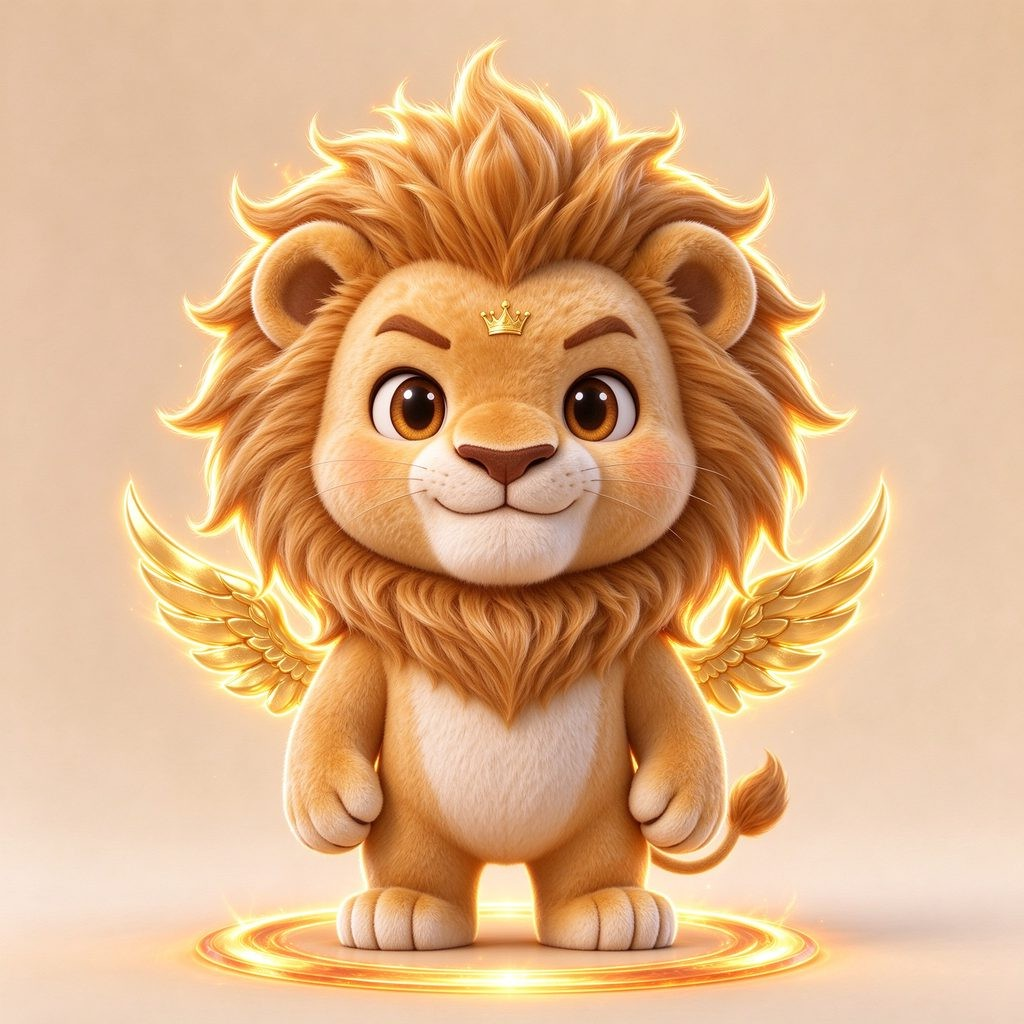
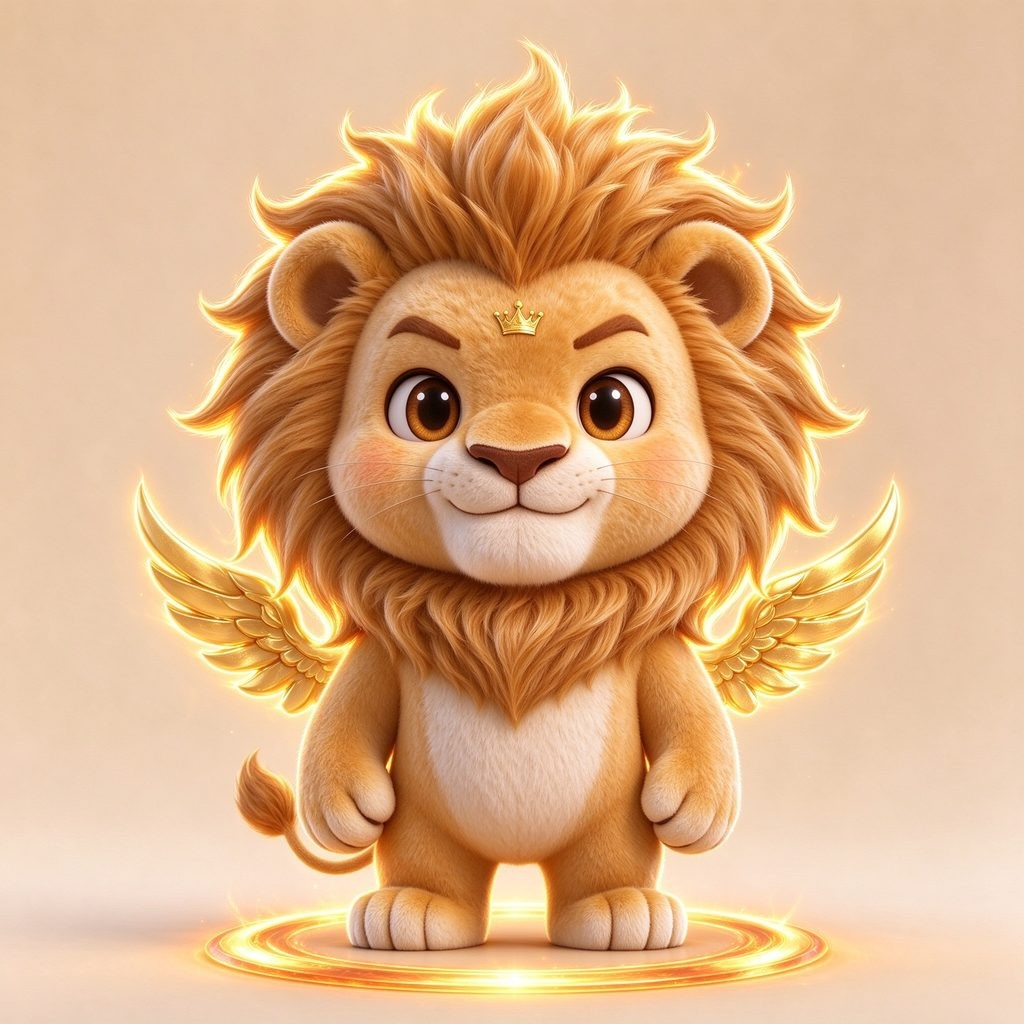
翻转 lion_s2；检查页加删除模式（198 张逐张可标）

diff --git a/public/art-audit.html b/public/art-audit.html
@@ -1,58 +1,67 @@
 <!doctype html>
 <html lang="zh-CN"><head><meta charset="utf-8"><meta name="viewport" content="width=device-width,initial-scale=1">
-<title>逐张朝向检查</title>
+<title>所有立绘 · 翻转 / 删除</title>
 <style>
-:root{--bg:#12131a;--card:#1b1d27;--line:#2b2e3d;--txt:#e9e6df;--dim:#9aa0b4;--warn:#ff8a8a;--ok:#8ee6a0}
+:root{--bg:#12131a;--card:#1b1d27;--line:#2b2e3d;--txt:#e9e6df;--dim:#9aa0b4;--warn:#ff8a8a;--del:#ff5c5c;--ok:#8ee6a0}
 *{box-sizing:border-box}
 body{margin:0;background:var(--bg);color:var(--txt);font:13px/1.5 -apple-system,"PingFang SC","Microsoft YaHei",sans-serif}
-header{position:sticky;top:0;z-index:9;background:rgba(18,19,26,.95);border-bottom:1px solid var(--line);padding:10px 14px}
+header{position:sticky;top:0;z-index:9;background:rgba(18,19,26,.96);border-bottom:1px solid var(--line);padding:10px 14px}
 h1{margin:0 0 4px;font-size:15px}
 .hint{color:var(--dim);font-size:12px}
 .bar{display:flex;gap:8px;align-items:center;flex-wrap:wrap;margin-top:8px}
 button{background:#242838;color:var(--txt);border:1px solid var(--line);border-radius:8px;padding:5px 10px;font-size:12px;cursor:pointer}
 button.on{background:#3a4258;border-color:#6f7bb0}
-.count{color:var(--warn);font-weight:600}
-textarea{width:100%;height:56px;background:#0e0f16;color:var(--ok);border:1px solid var(--line);border-radius:8px;padding:6px 8px;font-family:ui-monospace,monospace;font-size:12px;margin-top:8px}
+.mode{font-weight:600}
+.mode.flip{color:var(--warn)}
+.mode.del{color:var(--del)}
+textarea{width:100%;height:58px;background:#0e0f16;color:var(--ok);border:1px solid var(--line);border-radius:8px;padding:6px 8px;font-family:ui-monospace,monospace;font-size:12px;margin-top:8px}
 section{padding:14px}
 h2{font-size:13px;color:var(--dim);margin:6px 0 10px;font-weight:600}
-.grid{display:grid;grid-template-columns:repeat(auto-fill,minmax(130px,1fr));gap:10px}
+.grid{display:grid;grid-template-columns:repeat(auto-fill,minmax(124px,1fr));gap:10px}
 .card{background:var(--card);border:1px solid var(--line);border-radius:10px;padding:6px;cursor:pointer;position:relative}
 .card:hover{border-color:#4a5168}
-.card.on{border-color:var(--warn);box-shadow:0 0 0 1px var(--warn) inset}
-.card img{width:100%;height:104px;object-fit:contain;display:block;transition:transform .12s}
-.card.on img{transform:scaleX(-1)}
-.name{margin-top:4px;font-size:12px;text-align:center;white-space:nowrap;overflow:hidden;text-overflow:ellipsis}
-.id{font-size:10px;color:var(--dim);text-align:center;font-family:ui-monospace,monospace}
-.tag{position:absolute;top:4px;right:4px;font-size:10px;color:#1a1a1a;background:var(--warn);padding:0 4px;border-radius:5px;display:none}
-.card.on .tag{display:block}
-.hide{display:none}
+.card.flip{border-color:var(--warn);box-shadow:0 0 0 1px var(--warn) inset}
+.card.drop{border-color:var(--del);box-shadow:0 0 0 1px var(--del) inset}
+.card.flip img{transform:scaleX(-1)}
+.card.drop img{opacity:.28;filter:grayscale(1)}
+.card img{width:100%;height:100px;object-fit:contain;display:block;transition:.12s}
+.name{margin-top:4px;font-size:11px;text-align:center;white-space:nowrap;overflow:hidden;text-overflow:ellipsis}
+.id{font-size:9px;color:var(--dim);text-align:center;font-family:ui-monospace,monospace;white-space:nowrap;overflow:hidden;text-overflow:ellipsis}
+.tag{position:absolute;top:4px;right:4px;font-size:10px;color:#1a1a1a;padding:0 4px;border-radius:5px;display:none}
+.card.flip .tag{display:block;background:var(--warn)}
+.card.drop .tag{display:block;background:var(--del);color:#fff}
 </style></head>
 <body>
 <header>
-  <h1>逐张朝向检查 · 点一张 = 这张要翻</h1>
-  <div class="hint">已标记 <b class="count" id="cnt">0</b> 张 · 点「复制清单」把文件名发我，我按文件名逐张翻转（宠物会同时更新对应 png/jpg）</div>
+  <h1>所有立绘 <span class="mode flip" id="modeName">当前：标记翻转</span></h1>
+  <div class="hint">点卡片记录动作；翻完/删完分别复制清单发我。<b class="count" id="fc">0</b> 张翻转 · <b class="count" id="dc">0</b> 张删除</div>
   <div class="bar" id="filters">
+    <button data-mode="flip" id="mFlip" class="on">🔄 翻转模式</button>
+    <button data-mode="del" id="mDel">🗑 删除模式</button>
+    <span style="width:8px"></span>
     <button data-f="all" class="on">全部</button>
-    <button data-f="幼体">幼体</button><button data-f="成长体">成长体</button><button data-f="究极体">究极体</button><button data-f="形态Ⅰ">形态Ⅰ</button><button data-f="形态Ⅱ">形态Ⅱ</button><button data-f="形态Ⅲ">形态Ⅲ</button>
-    <button data-f="boss">首领</button>
-    <button id="markAll">本页全标记</button>
-    <button id="markNone">取消本页</button>
-    <button id="copy">复制清单</button>
+    <button data-f="幼体">幼体</button><button data-f="幼体·jpg">幼体·jpg</button><button data-f="成长体">成长体</button><button data-f="究极体">究极体</button><button data-f="首领·形态Ⅰ">首领·形态Ⅰ</button><button data-f="首领·形态Ⅱ">首领·形态Ⅱ</button><button data-f="首领·形态Ⅲ">首领·形态Ⅲ</button><button data-f="首领·底图">首领·底图</button>
+    <button id="copyFlip">复制翻转清单</button>
+    <button id="copyDel">复制删除清单</button>
     <button id="clear">清空</button>
   </div>
-  <textarea id="out" placeholder="标记结果会出现在这里"></textarea>
+  <textarea id="out" placeholder="清单会出现在这里"></textarea>
 </header>
 <div id="list"></div>
 <script>
-const ITEMS = [{"key":"pig","file":"art/pets/pig.png","label":"泥兜猪","sub":"幼体","kind":"pet"},{"key":"pig_s1","file":"art/pets-evo/pig_s1.png","label":"泥兜猪","sub":"成长体","kind":"pet"},{"key":"pig_s2","file":"art/pets-evo/pig_s2.png","label":"泥兜猪","sub":"究极体","kind":"pet"},{"key":"golden","file":"art/pets/golden.png","label":"金毛崽","sub":"幼体","kind":"pet"},{"key":"golden_s1","file":"art/pets-evo/golden_s1.png","label":"金毛崽","sub":"成长体","kind":"pet"},{"key":"golden_s2","file":"art/pets-evo/golden_s2.png","label":"金毛崽","sub":"究极体","kind":"pet"},{"key":"shiba","file":"art/pets/shiba.png","label":"橙柴犬","sub":"幼体","kind":"pet"},{"key":"shiba_s1","file":"art/pets-evo/shiba_s1.png","label":"橙柴犬","sub":"成长体","kind":"pet"},{"key":"shiba_s2","file":"art/pets-evo/shiba_s2.png","label":"橙柴犬","sub":"究极体","kind":"pet"},{"key":"orange","file":"art/pets/orange.png","label":"橘胖猫","sub":"幼体","kind":"pet"},{"key":"orange_s1","file":"art/pets-evo/orange_s1.png","label":"橘胖猫","sub":"成长体","kind":"pet"},{"key":"orange_s2","file":"art/pets-evo/orange_s2.png","label":"橘胖猫","sub":"究极体","kind":"pet"},{"key":"rabbit","file":"art/pets/rabbit.png","label":"月耳兔","sub":"幼体","kind":"pet"},{"key":"rabbit_s1","file":"art/pets-evo/rabbit_s1.png","label":"月耳兔","sub":"成长体","kind":"pet"},{"key":"rabbit_s2","file":"art/pets-evo/rabbit_s2.png","label":"月耳兔","sub":"究极体","kind":"pet"},{"key":"hamster","file":"art/pets/hamster.png","label":"粮袋仓鼠","sub":"幼体","kind":"pet"},{"key":"hamster_s1","file":"art/pets-evo/hamster_s1.png","label":"粮袋仓鼠","sub":"成长体","kind":"pet"},{"key":"hamster_s2","file":"art/pets-evo/hamster_s2.png","label":"粮袋仓鼠","sub":"究极体","kind":"pet"},{"key":"panda","file":"art/pets/panda.png","label":"竹团熊猫","sub":"幼体","kind":"pet"},{"key":"panda_s1","file":"art/pets-evo/panda_s1.png","label":"竹团熊猫","sub":"成长体","kind":"pet"},{"key":"panda_s2","file":"art/pets-evo/panda_s2.png","label":"竹团熊猫","sub":"究极体","kind":"pet"},{"key":"fox","file":"art/pets/fox.png","label":"焰尾狐","sub":"幼体","kind":"pet"},{"key":"fox_s1","file":"art/pets-evo/fox_s1.png","label":"焰尾狐","sub":"成长体","kind":"pet"},{"key":"fox_s2","file":"art/pets-evo/fox_s2.png","label":"焰尾狐","sub":"究极体","kind":"pet"},{"key":"sheep","file":"art/pets/sheep.png","label":"云卷羊","sub":"幼体","kind":"pet"},{"key":"sheep_s1","file":"art/pets-evo/sheep_s1.png","label":"云卷羊","sub":"成长体","kind":"pet"},{"key":"sheep_s2","file":"art/pets-evo/sheep_s2.png","label":"云卷羊","sub":"究极体","kind":"pet"},{"key":"otter","file":"art/pets/otter.png","label":"水花獭","sub":"幼体","kind":"pet"},{"key":"otter_s1","file":"art/pets-evo/otter_s1.png","label":"水花獭","sub":"成长体","kind":"pet"},{"key":"otter_s2","file":"art/pets-evo/otter_s2.png","label":"水花獭","sub":"究极体","kind":"pet"},{"key":"dragon","file":"art/pets/dragon.png","label":"水鳞幼龙","sub":"幼体","kind":"pet"},{"key":"dragon_s1","file":"art/pets-evo/dragon_s1.png","label":"水鳞幼龙","sub":"成长体","kind":"pet"},{"key":"dragon_s2","file":"art/pets-evo/dragon_s2.png","label":"水鳞幼龙","sub":"究极体","kind":"pet"},{"key":"phoenix","file":"art/pets/phoenix.png","label":"火羽雏凤","sub":"幼体","kind":"pet"},{"key":"phoenix_s1","file":"art/pets-evo/phoenix_s1.png","label":"火羽雏凤","sub":"成长体","kind":"pet"},{"key":"phoenix_s2","file":"art/pets-evo/phoenix_s2.png","label":"火羽雏凤","sub":"究极体","kind":"pet"},{"key":"turtle","file":"art/pets/turtle.png","label":"石壳龟","sub":"幼体","kind":"pet"},{"key":"turtle_s1","file":"art/pets-evo/turtle_s1.png","label":"石壳龟","sub":"成长体","kind":"pet"},{"key":"turtle_s2","file":"art/pets-evo/turtle_s2.png","label":"石壳龟","sub":"究极体","kind":"pet"},{"key":"bee","file":"art/pets/bee.png","label":"蜜刺蜂","sub":"幼体","kind":"pet"},{"key":"bee_s1","file":"art/pets-evo/bee_s1.png","label":"蜜刺蜂","sub":"成长体","kind":"pet"},{"key":"bee_s2","file":"art/pets-evo/bee_s2.png","label":"蜜刺蜂","sub":"究极体","kind":"pet"},{"key":"owl","file":"art/pets/owl.png","label":"夜书鸮","sub":"幼体","kind":"pet"},{"key":"owl_s1","file":"art/pets-evo/owl_s1.png","label":"夜书鸮","sub":"成长体","kind":"pet"},{"key":"owl_s2","file":"art/pets-evo/owl_s2.png","label":"夜书鸮","sub":"究极体","kind":"pet"},{"key":"deer","file":"art/pets/deer.png","label":"林铃鹿","sub":"幼体","kind":"pet"},{"key":"deer_s2","file":"art/pets-evo/deer_s2.png","label":"林铃鹿","sub":"究极体","kind":"pet"},{"key":"koi","file":"art/pets/koi.png","label":"好运鲤","sub":"幼体","kind":"pet"},{"key":"koi_s1","file":"art/pets-evo/koi_s1.png","label":"好运鲤","sub":"成长体","kind":"pet"},{"key":"koi_s2","file":"art/pets-evo/koi_s2.png","label":"好运鲤","sub":"究极体","kind":"pet"},{"key":"lion","file":"art/pets/lion.png","label":"鬃毛狮崽","sub":"幼体","kind":"pet"},{"key":"lion_s1","file":"art/pets-evo/lion_s1.png","label":"鬃毛狮崽","sub":"成长体","kind":"pet"},{"key":"lion_s2","file":"art/pets-evo/lion_s2.png","label":"鬃毛狮崽","sub":"究极体","kind":"pet"},{"key":"unicorn","file":"art/pets/unicorn.png","label":"独角驹","sub":"幼体","kind":"pet"},{"key":"unicorn_s1","file":"art/pets-evo/unicorn_s1.jpg","label":"独角驹","sub":"成长体","kind":"pet"},{"key":"unicorn_s2","file":"art/pets-evo/unicorn_s2.png","label":"独角驹","sub":"究极体","kind":"pet"},{"key":"goat","file":"art/pets/goat.png","label":"倔角羊","sub":"幼体","kind":"pet"},{"key":"gull","file":"art/pets/gull.png","label":"浪花鸥","sub":"幼体","kind":"pet"},{"key":"flysquirrel","file":"art/pets/flysquirrel.png","label":"滑翔鼠","sub":"幼体","kind":"pet"},{"key":"sparrow","file":"art/pets/sparrow.png","label":"高歌雀","sub":"幼体","kind":"pet"},{"key":"moth","file":"art/pets/moth.png","label":"花雾蛾","sub":"幼体","kind":"pet"},{"key":"albatross","file":"art/pets/albatross.png","label":"长风信天翁","sub":"幼体","kind":"pet"},{"key":"penguin","file":"art/pets/penguin.png","label":"滑冰企鹅","sub":"幼体","kind":"pet"},{"key":"seal","file":"art/pets/seal.png","label":"雪球海豹","sub":"幼体","kind":"pet"},{"key":"arcticfox","file":"art/pets/arcticfox.png","label":"霜毛狐","sub":"幼体","kind":"pet"},{"key":"polarbear","file":"art/pets/polarbear.png","label":"雪原熊崽","sub":"幼体","kind":"pet"},{"key":"walrus","file":"art/pets/walrus.png","label":"长牙海象","sub":"幼体","kind":"pet"},{"key":"koala","file":"art/pets/koala.png","label":"桉叶考拉","sub":"幼体","kind":"pet"},{"key":"flamingo","file":"art/pets/flamingo.png","label":"绯羽火烈鸟","sub":"幼体","kind":"pet"},{"key":"octopus","file":"art/pets/octopus.png","label":"八腕章鱼","sub":"幼体","kind":"pet"},{"key":"mushroom","file":"art/pets/mushroom.png","label":"伞盖菇童","sub":"幼体","kind":"pet"},{"key":"bat","file":"art/pets/bat.png","label":"夜巷蝠","sub":"幼体","kind":"pet"},{"key":"lynx","file":"art/pets/lynx.png","label":"雪林猞猁","sub":"幼体","kind":"pet"},{"key":"alpaca","file":"art/pets/alpaca.png","label":"高原羊驼","sub":"幼体","kind":"pet"},{"key":"mole","file":"art/pets/mole.png","label":"掘土鼹","sub":"幼体","kind":"pet"},{"key":"jellyfish","file":"art/pets/jellyfish.png","label":"浮灯水母","sub":"幼体","kind":"pet"},{"key":"peacock","file":"art/pets/peacock.png","label":"光羽孔雀","sub":"幼体","kind":"pet"},{"key":"qilin","file":"art/pets/qilin.png","label":"火麟幼兽","sub":"幼体","kind":"pet"},{"key":"qilin_s1","file":"art/pets-evo/qilin_s1.png","label":"火麟幼兽","sub":"成长体","kind":"pet"},{"key":"qilin_s2","file":"art/pets-evo/qilin_s2.png","label":"火麟幼兽","sub":"究极体","kind":"pet"},{"key":"raccoon","file":"art/pets/raccoon.png","label":"灰脸小浣熊","sub":"幼体","kind":"pet"},{"key":"raccoon_s1","file":"art/pets-evo/raccoon_s1.png","label":"灰脸小浣熊","sub":"成长体","kind":"pet"},{"key":"raccoon_s2","file":"art/pets-evo/raccoon_s2.png","label":"灰脸小浣熊","sub":"究极体","kind":"pet"},{"key":"narwhal","file":"art/pets/narwhal.png","label":"独角小鲸","sub":"幼体","kind":"pet"},{"key":"narwhal_s1","file":"art/pets-evo/narwhal_s1.png","label":"独角小鲸","sub":"成长体","kind":"pet"},{"key":"narwhal_s2","file":"art/pets-evo/narwhal_s2.png","label":"独角小鲸","sub":"究极体","kind":"pet"},{"key":"squid","file":"art/pets/squid.png","label":"墨囊小鱿","sub":"幼体","kind":"pet"},{"key":"squid_s1","file":"art/pets-evo/squid_s1.png","label":"墨囊小鱿","sub":"成长体","kind":"pet"},{"key":"squid_s2","file":"art/pets-evo/squid_s2.png","label":"墨囊小鱿","sub":"究极体","kind":"pet"},{"key":"wolf","file":"art/pets/wolf.png","label":"霜牙小狼","sub":"幼体","kind":"pet"},{"key":"wolf_s1","file":"art/pets-evo/wolf_s1.png","label":"霜牙小狼","sub":"成长体","kind":"pet"},{"key":"wolf_s2","file":"art/pets-evo/wolf_s2.png","label":"霜牙小狼","sub":"究极体","kind":"pet"},{"key":"rhino","file":"art/pets/rhino.png","label":"铁角小犀","sub":"幼体","kind":"pet"},{"key":"rhino_s1","file":"art/pets-evo/rhino_s1.png","label":"铁角小犀","sub":"成长体","kind":"pet"},{"key":"rhino_s2","file":"art/pets-evo/rhino_s2.png","label":"铁角小犀","sub":"究极体","kind":"pet"},{"key":"hummingbird","file":"art/pets/hummingbird.png","label":"振翅小蜂鸟","sub":"幼体","kind":"pet"},{"key":"hummingbird_s1","file":"art/pets-evo/hummingbird_s1.png","label":"振翅小蜂鸟","sub":"成长体","kind":"pet"},{"key":"hummingbird_s2","file":"art/pets-evo/hummingbird_s2.png","label":"振翅小蜂鸟","sub":"究极体","kind":"pet"},{"key":"slime_king_p1","file":"art/bosses/slime_king_p1.png","label":"青茸史莱姆王","sub":"形态Ⅰ","kind":"boss"},{"key":"slime_king_p2","file":"art/bosses/slime_king_p2.png","label":"青茸史莱姆王","sub":"形态Ⅱ","kind":"boss"},{"key":"slime_king_p3","file":"art/bosses/slime_king_p3.png","label":"青茸史莱姆王","sub":"形态Ⅲ","kind":"boss"},{"key":"caramel_fox_p1","file":"art/bosses/caramel_fox_p1.png","label":"焦糖狐火领主","sub":"形态Ⅰ","kind":"boss"},{"key":"caramel_fox_p2","file":"art/bosses/caramel_fox_p2.png","label":"焦糖狐火领主","sub":"形态Ⅱ","kind":"boss"},{"key":"caramel_fox_p3","file":"art/bosses/caramel_fox_p3.png","label":"焦糖狐火领主","sub":"形态Ⅲ","kind":"boss"},{"key":"tide_lord_p1","file":"art/bosses/tide_lord_p1.png","label":"溪谷潮语领主","sub":"形态Ⅰ","kind":"boss"},{"key":"tide_lord_p2","file":"art/bosses/tide_lord_p2.png","label":"溪谷潮语领主","sub":"形态Ⅱ","kind":"boss"},{"key":"tide_lord_p3","file":"art/bosses/tide_lord_p3.png","label":"溪谷潮语领主","sub":"形态Ⅲ","kind":"boss"},{"key":"honey_bear_p1","file":"art/bosses/honey_bear_p1.png","label":"蜜蜡金甲熊王","sub":"形态Ⅰ","kind":"boss"},{"key":"honey_bear_p2","file":"art/bosses/honey_bear_p2.png","label":"蜜蜡金甲熊王","sub":"形态Ⅱ","kind":"boss"},{"key":"honey_bear_p3","file":"art/bosses/honey_bear_p3.png","label":"蜜蜡金甲熊王","sub":"形态Ⅲ","kind":"boss"},{"key":"moon_demon_p1","file":"art/bosses/moon_demon_p1.png","label":"月蚀幽影魔王","sub":"形态Ⅰ","kind":"boss"},{"key":"moon_demon_p2","file":"art/bosses/moon_demon_p2.png","label":"月蚀幽影魔王","sub":"形态Ⅱ","kind":"boss"},{"key":"moon_demon_p3","file":"art/bosses/moon_demon_p3.png","label":"月蚀幽影魔王","sub":"形态Ⅲ","kind":"boss"},{"key":"cloud_whale_p1","file":"art/bosses/cloud_whale_p1.png","label":"云海光翼巨鲸","sub":"形态Ⅰ","kind":"boss"},{"key":"cloud_whale_p2","file":"art/bosses/cloud_whale_p2.png","label":"云海光翼巨鲸","sub":"形态Ⅱ","kind":"boss"},{"key":"cloud_whale_p3","file":"art/bosses/cloud_whale_p3.png","label":"云海光翼巨鲸","sub":"形态Ⅲ","kind":"boss"},{"key":"magma_drake_p1","file":"art/bosses/magma_drake_p1.png","label":"熔核赤焰幼龙","sub":"形态Ⅰ","kind":"boss"},{"key":"magma_drake_p2","file":"art/bosses/magma_drake_p2.png","label":"熔核赤焰幼龙","sub":"形态Ⅱ","kind":"boss"},{"key":"magma_drake_p3","file":"art/bosses/magma_drake_p3.png","label":"熔核赤焰幼龙","sub":"形态Ⅲ","kind":"boss"},{"key":"star_beast_p1","file":"art/bosses/star_beast_p1.png","label":"星潮怒涛巨兽","sub":"形态Ⅰ","kind":"boss"},{"key":"star_beast_p2","file":"art/bosses/star_beast_p2.png","label":"星潮怒涛巨兽","sub":"形态Ⅱ","kind":"boss"},{"key":"star_beast_p3","file":"art/bosses/star_beast_p3.png","label":"星潮怒涛巨兽","sub":"形态Ⅲ","kind":"boss"},{"key":"prism_queen_p1","file":"art/bosses/prism_queen_p1.png","label":"幻光蝶后","sub":"形态Ⅰ","kind":"boss"},{"key":"prism_queen_p2","file":"art/bosses/prism_queen_p2.png","label":"幻光蝶后","sub":"形态Ⅱ","kind":"boss"},{"key":"prism_queen_p3","file":"art/bosses/prism_queen_p3.png","label":"幻光蝶后","sub":"形态Ⅲ","kind":"boss"},{"key":"peak_titan_p1","file":"art/bosses/peak_titan_p1.png","label":"永恒石心魔神","sub":"形态Ⅰ","kind":"boss"},{"key":"peak_titan_p2","file":"art/bosses/peak_titan_p2.png","label":"永恒石心魔神","sub":"形态Ⅱ","kind":"boss"},{"key":"peak_titan_p3","file":"art/bosses/peak_titan_p3.png","label":"永恒石心魔神","sub":"形态Ⅲ","kind":"boss"},{"key":"watcher_p1","file":"art/bosses/watcher_p1.png","label":"守梦人·执念","sub":"形态Ⅰ","kind":"boss"},{"key":"watcher_p2","file":"art/bosses/watcher_p2.png","label":"守梦人·执念","sub":"形态Ⅱ","kind":"boss"},{"key":"watcher_p3","file":"art/bosses/watcher_p3.png","label":"守梦人·执念","sub":"形态Ⅲ","kind":"boss"},{"key":"goodnight_p1","file":"art/bosses/goodnight_p1.png","label":"晚安先生","sub":"形态Ⅰ","kind":"boss"},{"key":"goodnight_p2","file":"art/bosses/goodnight_p2.png","label":"晚安先生","sub":"形态Ⅱ","kind":"boss"},{"key":"goodnight_p3","file":"art/bosses/goodnight_p3.png","label":"晚安先生","sub":"形态Ⅲ","kind":"boss"}];
-const marked = new Set();
-const listEl = document.getElementById('list');
-function render(filter) {
-  listEl.innerHTML = '';
+const ITEMS = [{"key":"pig","btn":"pig","file":"art/pets/pig.png","label":"泥兜猪","sub":"幼体","kind":"pet"},{"key":"pig@jpg","btn":"pig.jpg","file":"art/pets/pig.jpg","label":"泥兜猪 (jpg)","sub":"幼体·jpg","kind":"pet"},{"key":"pig_s1@png","btn":"pig_s1.png","file":"art/pets-evo/pig_s1.png","label":"泥兜猪 (png)","sub":"成长体","kind":"pet"},{"key":"pig_s1@jpg","btn":"pig_s1.jpg","file":"art/pets-evo/pig_s1.jpg","label":"泥兜猪 (jpg)","sub":"成长体","kind":"pet"},{"key":"pig_s2@png","btn":"pig_s2.png","file":"art/pets-evo/pig_s2.png","label":"泥兜猪 (png)","sub":"究极体","kind":"pet"},{"key":"pig_s2@jpg","btn":"pig_s2.jpg","file":"art/pets-evo/pig_s2.jpg","label":"泥兜猪 (jpg)","sub":"究极体","kind":"pet"},{"key":"golden","btn":"golden","file":"art/pets/golden.png","label":"金毛崽","sub":"幼体","kind":"pet"},{"key":"golden@jpg","btn":"golden.jpg","file":"art/pets/golden.jpg","label":"金毛崽 (jpg)","sub":"幼体·jpg","kind":"pet"},{"key":"golden_s1@png","btn":"golden_s1.png","file":"art/pets-evo/golden_s1.png","label":"金毛崽 (png)","sub":"成长体","kind":"pet"},{"key":"golden_s1@jpg","btn":"golden_s1.jpg","file":"art/pets-evo/golden_s1.jpg","label":"金毛崽 (jpg)","sub":"成长体","kind":"pet"},{"key":"golden_s2@png","btn":"golden_s2.png","file":"art/pets-evo/golden_s2.png","label":"金毛崽 (png)","sub":"究极体","kind":"pet"},{"key":"golden_s2@jpg","btn":"golden_s2.jpg","file":"art/pets-evo/golden_s2.jpg","label":"金毛崽 (jpg)","sub":"究极体","kind":"pet"},{"key":"shiba","btn":"shiba","file":"art/pets/shiba.png","label":"橙柴犬","sub":"幼体","kind":"pet"},{"key":"shiba@jpg","btn":"shiba.jpg","file":"art/pets/shiba.jpg","label":"橙柴犬 (jpg)","sub":"幼体·jpg","kind":"pet"},{"key":"shiba_s1@png","btn":"shiba_s1.png","file":"art/pets-evo/shiba_s1.png","label":"橙柴犬 (png)","sub":"成长体","kind":"pet"},{"key":"shiba_s2@png","btn":"shiba_s2.png","file":"art/pets-evo/shiba_s2.png","label":"橙柴犬 (png)","sub":"究极体","kind":"pet"},{"key":"orange","btn":"orange","file":"art/pets/orange.png","label":"橘胖猫","sub":"幼体","kind":"pet"},{"key":"orange@jpg","btn":"orange.jpg","file":"art/pets/orange.jpg","label":"橘胖猫 (jpg)","sub":"幼体·jpg","kind":"pet"},{"key":"orange_s1@png","btn":"orange_s1.png","file":"art/pets-evo/orange_s1.png","label":"橘胖猫 (png)","sub":"成长体","kind":"pet"},{"key":"orange_s2@png","btn":"orange_s2.png","file":"art/pets-evo/orange_s2.png","label":"橘胖猫 (png)","sub":"究极体","kind":"pet"},{"key":"rabbit","btn":"rabbit","file":"art/pets/rabbit.png","label":"月耳兔","sub":"幼体","kind":"pet"},{"key":"rabbit@jpg","btn":"rabbit.jpg","file":"art/pets/rabbit.jpg","label":"月耳兔 (jpg)","sub":"幼体·jpg","kind":"pet"},{"key":"rabbit_s1@png","btn":"rabbit_s1.png","file":"art/pets-evo/rabbit_s1.png","label":"月耳兔 (png)","sub":"成长体","kind":"pet"},{"key":"rabbit_s2@png","btn":"rabbit_s2.png","file":"art/pets-evo/rabbit_s2.png","label":"月耳兔 (png)","sub":"究极体","kind":"pet"},{"key":"hamster","btn":"hamster","file":"art/pets/hamster.png","label":"粮袋仓鼠","sub":"幼体","kind":"pet"},{"key":"hamster@jpg","btn":"hamster.jpg","file":"art/pets/hamster.jpg","label":"粮袋仓鼠 (jpg)","sub":"幼体·jpg","kind":"pet"},{"key":"hamster_s1@png","btn":"hamster_s1.png","file":"art/pets-evo/hamster_s1.png","label":"粮袋仓鼠 (png)","sub":"成长体","kind":"pet"},{"key":"hamster_s2@png","btn":"hamster_s2.png","file":"art/pets-evo/hamster_s2.png","label":"粮袋仓鼠 (png)","sub":"究极体","kind":"pet"},{"key":"panda","btn":"panda","file":"art/pets/panda.png","label":"竹团熊猫","sub":"幼体","kind":"pet"},{"key":"panda@jpg","btn":"panda.jpg","file":"art/pets/panda.jpg","label":"竹团熊猫 (jpg)","sub":"幼体·jpg","kind":"pet"},{"key":"panda_s1@png","btn":"panda_s1.png","file":"art/pets-evo/panda_s1.png","label":"竹团熊猫 (png)","sub":"成长体","kind":"pet"},{"key":"panda_s2@png","btn":"panda_s2.png","file":"art/pets-evo/panda_s2.png","label":"竹团熊猫 (png)","sub":"究极体","kind":"pet"},{"key":"fox","btn":"fox","file":"art/pets/fox.png","label":"焰尾狐","sub":"幼体","kind":"pet"},{"key":"fox@jpg","btn":"fox.jpg","file":"art/pets/fox.jpg","label":"焰尾狐 (jpg)","sub":"幼体·jpg","kind":"pet"},{"key":"fox_s1@png","btn":"fox_s1.png","file":"art/pets-evo/fox_s1.png","label":"焰尾狐 (png)","sub":"成长体","kind":"pet"},{"key":"fox_s2@png","btn":"fox_s2.png","file":"art/pets-evo/fox_s2.png","label":"焰尾狐 (png)","sub":"究极体","kind":"pet"},{"key":"sheep","btn":"sheep","file":"art/pets/sheep.png","label":"云卷羊","sub":"幼体","kind":"pet"},{"key":"sheep@jpg","btn":"sheep.jpg","file":"art/pets/sheep.jpg","label":"云卷羊 (jpg)","sub":"幼体·jpg","kind":"pet"},{"key":"sheep_s1@png","btn":"sheep_s1.png","file":"art/pets-evo/sheep_s1.png","label":"云卷羊 (png)","sub":"成长体","kind":"pet"},{"key":"sheep_s2@png","btn":"sheep_s2.png","file":"art/pets-evo/sheep_s2.png","label":"云卷羊 (png)","sub":"究极体","kind":"pet"},{"key":"otter","btn":"otter","file":"art/pets/otter.png","label":"水花獭","sub":"幼体","kind":"pet"},{"key":"otter@jpg","btn":"otter.jpg","file":"art/pets/otter.jpg","label":"水花獭 (jpg)","sub":"幼体·jpg","kind":"pet"},{"key":"otter_s1@png","btn":"otter_s1.png","file":"art/pets-evo/otter_s1.png","label":"水花獭 (png)","sub":"成长体","kind":"pet"},{"key":"otter_s2@png","btn":"otter_s2.png","file":"art/pets-evo/otter_s2.png","label":"水花獭 (png)","sub":"究极体","kind":"pet"},{"key":"dragon","btn":"dragon","file":"art/pets/dragon.png","label":"水鳞幼龙","sub":"幼体","kind":"pet"},{"key":"dragon@jpg","btn":"dragon.jpg","file":"art/pets/dragon.jpg","label":"水鳞幼龙 (jpg)","sub":"幼体·jpg","kind":"pet"},{"key":"dragon_s1@png","btn":"dragon_s1.png","file":"art/pets-evo/dragon_s1.png","label":"水鳞幼龙 (png)","sub":"成长体","kind":"pet"},{"key":"dragon_s1@jpg","btn":"dragon_s1.jpg","file":"art/pets-evo/dragon_s1.jpg","label":"水鳞幼龙 (jpg)","sub":"成长体","kind":"pet"},{"key":"dragon_s2@png","btn":"dragon_s2.png","file":"art/pets-evo/dragon_s2.png","label":"水鳞幼龙 (png)","sub":"究极体","kind":"pet"},{"key":"dragon_s2@jpg","btn":"dragon_s2.jpg","file":"art/pets-evo/dragon_s2.jpg","label":"水鳞幼龙 (jpg)","sub":"究极体","kind":"pet"},{"key":"phoenix","btn":"phoenix","file":"art/pets/phoenix.png","label":"火羽雏凤","sub":"幼体","kind":"pet"},{"key":"phoenix@jpg","btn":"phoenix.jpg","file":"art/pets/phoenix.jpg","label":"火羽雏凤 (jpg)","sub":"幼体·jpg","kind":"pet"},{"key":"phoenix_s1@png","btn":"phoenix_s1.png","file":"art/pets-evo/phoenix_s1.png","label":"火羽雏凤 (png)","sub":"成长体","kind":"pet"},{"key":"phoenix_s2@png","btn":"phoenix_s2.png","file":"art/pets-evo/phoenix_s2.png","label":"火羽雏凤 (png)","sub":"究极体","kind":"pet"},{"key":"turtle","btn":"turtle","file":"art/pets/turtle.png","label":"石壳龟","sub":"幼体","kind":"pet"},{"key":"turtle@jpg","btn":"turtle.jpg","file":"art/pets/turtle.jpg","label":"石壳龟 (jpg)","sub":"幼体·jpg","kind":"pet"},{"key":"turtle_s1@png","btn":"turtle_s1.png","file":"art/pets-evo/turtle_s1.png","label":"石壳龟 (png)","sub":"成长体","kind":"pet"},{"key":"turtle_s2@png","btn":"turtle_s2.png","file":"art/pets-evo/turtle_s2.png","label":"石壳龟 (png)","sub":"究极体","kind":"pet"},{"key":"bee","btn":"bee","file":"art/pets/bee.png","label":"蜜刺蜂","sub":"幼体","kind":"pet"},{"key":"bee@jpg","btn":"bee.jpg","file":"art/pets/bee.jpg","label":"蜜刺蜂 (jpg)","sub":"幼体·jpg","kind":"pet"},{"key":"bee_s1@png","btn":"bee_s1.png","file":"art/pets-evo/bee_s1.png","label":"蜜刺蜂 (png)","sub":"成长体","kind":"pet"},{"key":"bee_s2@png","btn":"bee_s2.png","file":"art/pets-evo/bee_s2.png","label":"蜜刺蜂 (png)","sub":"究极体","kind":"pet"},{"key":"owl","btn":"owl","file":"art/pets/owl.png","label":"夜书鸮","sub":"幼体","kind":"pet"},{"key":"owl@jpg","btn":"owl.jpg","file":"art/pets/owl.jpg","label":"夜书鸮 (jpg)","sub":"幼体·jpg","kind":"pet"},{"key":"owl_s1@png","btn":"owl_s1.png","file":"art/pets-evo/owl_s1.png","label":"夜书鸮 (png)","sub":"成长体","kind":"pet"},{"key":"owl_s2@png","btn":"owl_s2.png","file":"art/pets-evo/owl_s2.png","label":"夜书鸮 (png)","sub":"究极体","kind":"pet"},{"key":"deer","btn":"deer","file":"art/pets/deer.png","label":"林铃鹿","sub":"幼体","kind":"pet"},{"key":"deer@jpg","btn":"deer.jpg","file":"art/pets/deer.jpg","label":"林铃鹿 (jpg)","sub":"幼体·jpg","kind":"pet"},{"key":"deer_s2@png","btn":"deer_s2.png","file":"art/pets-evo/deer_s2.png","label":"林铃鹿 (png)","sub":"究极体","kind":"pet"},{"key":"koi","btn":"koi","file":"art/pets/koi.png","label":"好运鲤","sub":"幼体","kind":"pet"},{"key":"koi@jpg","btn":"koi.jpg","file":"art/pets/koi.jpg","label":"好运鲤 (jpg)","sub":"幼体·jpg","kind":"pet"},{"key":"koi_s1@png","btn":"koi_s1.png","file":"art/pets-evo/koi_s1.png","label":"好运鲤 (png)","sub":"成长体","kind":"pet"},{"key":"koi_s2@png","btn":"koi_s2.png","file":"art/pets-evo/koi_s2.png","label":"好运鲤 (png)","sub":"究极体","kind":"pet"},{"key":"lion","btn":"lion","file":"art/pets/lion.png","label":"鬃毛狮崽","sub":"幼体","kind":"pet"},{"key":"lion@jpg","btn":"lion.jpg","file":"art/pets/lion.jpg","label":"鬃毛狮崽 (jpg)","sub":"幼体·jpg","kind":"pet"},{"key":"lion_s1@png","btn":"lion_s1.png","file":"art/pets-evo/lion_s1.png","label":"鬃毛狮崽 (png)","sub":"成长体","kind":"pet"},{"key":"lion_s1@jpg","btn":"lion_s1.jpg","file":"art/pets-evo/lion_s1.jpg","label":"鬃毛狮崽 (jpg)","sub":"成长体","kind":"pet"},{"key":"lion_s2@png","btn":"lion_s2.png","file":"art/pets-evo/lion_s2.png","label":"鬃毛狮崽 (png)","sub":"究极体","kind":"pet"},{"key":"lion_s2@jpg","btn":"lion_s2.jpg","file":"art/pets-evo/lion_s2.jpg","label":"鬃毛狮崽 (jpg)","sub":"究极体","kind":"pet"},{"key":"unicorn","btn":"unicorn","file":"art/pets/unicorn.png","label":"独角驹","sub":"幼体","kind":"pet"},{"key":"unicorn@jpg","btn":"unicorn.jpg","file":"art/pets/unicorn.jpg","label":"独角驹 (jpg)","sub":"幼体·jpg","kind":"pet"},{"key":"unicorn_s1@jpg","btn":"unicorn_s1.jpg","file":"art/pets-evo/unicorn_s1.jpg","label":"独角驹 (jpg)","sub":"成长体","kind":"pet"},{"key":"unicorn_s2@png","btn":"unicorn_s2.png","file":"art/pets-evo/unicorn_s2.png","label":"独角驹 (png)","sub":"究极体","kind":"pet"},{"key":"unicorn_s2@jpg","btn":"unicorn_s2.jpg","file":"art/pets-evo/unicorn_s2.jpg","label":"独角驹 (jpg)","sub":"究极体","kind":"pet"},{"key":"goat","btn":"goat","file":"art/pets/goat.png","label":"倔角羊","sub":"幼体","kind":"pet"},{"key":"goat@jpg","btn":"goat.jpg","file":"art/pets/goat.jpg","label":"倔角羊 (jpg)","sub":"幼体·jpg","kind":"pet"},{"key":"gull","btn":"gull","file":"art/pets/gull.png","label":"浪花鸥","sub":"幼体","kind":"pet"},{"key":"gull@jpg","btn":"gull.jpg","file":"art/pets/gull.jpg","label":"浪花鸥 (jpg)","sub":"幼体·jpg","kind":"pet"},{"key":"flysquirrel","btn":"flysquirrel","file":"art/pets/flysquirrel.png","label":"滑翔鼠","sub":"幼体","kind":"pet"},{"key":"flysquirrel@jpg","btn":"flysquirrel.jpg","file":"art/pets/flysquirrel.jpg","label":"滑翔鼠 (jpg)","sub":"幼体·jpg","kind":"pet"},{"key":"sparrow","btn":"sparrow","file":"art/pets/sparrow.png","label":"高歌雀","sub":"幼体","kind":"pet"},{"key":"sparrow@jpg","btn":"sparrow.jpg","file":"art/pets/sparrow.jpg","label":"高歌雀 (jpg)","sub":"幼体·jpg","kind":"pet"},{"key":"moth","btn":"moth","file":"art/pets/moth.png","label":"花雾蛾","sub":"幼体","kind":"pet"},{"key":"moth@jpg","btn":"moth.jpg","file":"art/pets/moth.jpg","label":"花雾蛾 (jpg)","sub":"幼体·jpg","kind":"pet"},{"key":"albatross","btn":"albatross","file":"art/pets/albatross.png","label":"长风信天翁","sub":"幼体","kind":"pet"},{"key":"albatross@jpg","btn":"albatross.jpg","file":"art/pets/albatross.jpg","label":"长风信天翁 (jpg)","sub":"幼体·jpg","kind":"pet"},{"key":"penguin","btn":"penguin","file":"art/pets/penguin.png","label":"滑冰企鹅","sub":"幼体","kind":"pet"},{"key":"penguin@jpg","btn":"penguin.jpg","file":"art/pets/penguin.jpg","label":"滑冰企鹅 (jpg)","sub":"幼体·jpg","kind":"pet"},{"key":"seal","btn":"seal","file":"art/pets/seal.png","label":"雪球海豹","sub":"幼体","kind":"pet"},{"key":"seal@jpg","btn":"seal.jpg","file":"art/pets/seal.jpg","label":"雪球海豹 (jpg)","sub":"幼体·jpg","kind":"pet"},{"key":"arcticfox","btn":"arcticfox","file":"art/pets/arcticfox.png","label":"霜毛狐","sub":"幼体","kind":"pet"},{"key":"arcticfox@jpg","btn":"arcticfox.jpg","file":"art/pets/arcticfox.jpg","label":"霜毛狐 (jpg)","sub":"幼体·jpg","kind":"pet"},{"key":"polarbear","btn":"polarbear","file":"art/pets/polarbear.png","label":"雪原熊崽","sub":"幼体","kind":"pet"},{"key":"polarbear@jpg","btn":"polarbear.jpg","file":"art/pets/polarbear.jpg","label":"雪原熊崽 (jpg)","sub":"幼体·jpg","kind":"pet"},{"key":"walrus","btn":"walrus","file":"art/pets/walrus.png","label":"长牙海象","sub":"幼体","kind":"pet"},{"key":"walrus@jpg","btn":"walrus.jpg","file":"art/pets/walrus.jpg","label":"长牙海象 (jpg)","sub":"幼体·jpg","kind":"pet"},{"key":"koala","btn":"koala","file":"art/pets/koala.png","label":"桉叶考拉","sub":"幼体","kind":"pet"},{"key":"koala@jpg","btn":"koala.jpg","file":"art/pets/koala.jpg","label":"桉叶考拉 (jpg)","sub":"幼体·jpg","kind":"pet"},{"key":"flamingo","btn":"flamingo","file":"art/pets/flamingo.png","label":"绯羽火烈鸟","sub":"幼体","kind":"pet"},{"key":"flamingo@jpg","btn":"flamingo.jpg","file":"art/pets/flamingo.jpg","label":"绯羽火烈鸟 (jpg)","sub":"幼体·jpg","kind":"pet"},{"key":"octopus","btn":"octopus","file":"art/pets/octopus.png","label":"八腕章鱼","sub":"幼体","kind":"pet"},{"key":"octopus@jpg","btn":"octopus.jpg","file":"art/pets/octopus.jpg","label":"八腕章鱼 (jpg)","sub":"幼体·jpg","kind":"pet"},{"key":"mushroom","btn":"mushroom","file":"art/pets/mushroom.png","label":"伞盖菇童","sub":"幼体","kind":"pet"},{"key":"mushroom@jpg","btn":"mushroom.jpg","file":"art/pets/mushroom.jpg","label":"伞盖菇童 (jpg)","sub":"幼体·jpg","kind":"pet"},{"key":"bat","btn":"bat","file":"art/pets/bat.png","label":"夜巷蝠","sub":"幼体","kind":"pet"},{"key":"bat@jpg","btn":"bat.jpg","file":"art/pets/bat.jpg","label":"夜巷蝠 (jpg)","sub":"幼体·jpg","kind":"pet"},{"key":"lynx","btn":"lynx","file":"art/pets/lynx.png","label":"雪林猞猁","sub":"幼体","kind":"pet"},{"key":"lynx@jpg","btn":"lynx.jpg","file":"art/pets/lynx.jpg","label":"雪林猞猁 (jpg)","sub":"幼体·jpg","kind":"pet"},{"key":"alpaca","btn":"alpaca","file":"art/pets/alpaca.png","label":"高原羊驼","sub":"幼体","kind":"pet"},{"key":"alpaca@jpg","btn":"alpaca.jpg","file":"art/pets/alpaca.jpg","label":"高原羊驼 (jpg)","sub":"幼体·jpg","kind":"pet"},{"key":"mole","btn":"mole","file":"art/pets/mole.png","label":"掘土鼹","sub":"幼体","kind":"pet"},{"key":"mole@jpg","btn":"mole.jpg","file":"art/pets/mole.jpg","label":"掘土鼹 (jpg)","sub":"幼体·jpg","kind":"pet"},{"key":"jellyfish","btn":"jellyfish","file":"art/pets/jellyfish.png","label":"浮灯水母","sub":"幼体","kind":"pet"},{"key":"jellyfish@jpg","btn":"jellyfish.jpg","file":"art/pets/jellyfish.jpg","label":"浮灯水母 (jpg)","sub":"幼体·jpg","kind":"pet"},{"key":"peacock","btn":"peacock","file":"art/pets/peacock.png","label":"光羽孔雀","sub":"幼体","kind":"pet"},{"key":"peacock@jpg","btn":"peacock.jpg","file":"art/pets/peacock.jpg","label":"光羽孔雀 (jpg)","sub":"幼体·jpg","kind":"pet"},{"key":"qilin","btn":"qilin","file":"art/pets/qilin.png","label":"火麟幼兽","sub":"幼体","kind":"pet"},{"key":"qilin_s1@png","btn":"qilin_s1.png","file":"art/pets-evo/qilin_s1.png","label":"火麟幼兽 (png)","sub":"成长体","kind":"pet"},{"key":"qilin_s2@png","btn":"qilin_s2.png","file":"art/pets-evo/qilin_s2.png","label":"火麟幼兽 (png)","sub":"究极体","kind":"pet"},{"key":"raccoon","btn":"raccoon","file":"art/pets/raccoon.png","label":"灰脸小浣熊","sub":"幼体","kind":"pet"},{"key":"raccoon_s1@png","btn":"raccoon_s1.png","file":"art/pets-evo/raccoon_s1.png","label":"灰脸小浣熊 (png)","sub":"成长体","kind":"pet"},{"key":"raccoon_s2@png","btn":"raccoon_s2.png","file":"art/pets-evo/raccoon_s2.png","label":"灰脸小浣熊 (png)","sub":"究极体","kind":"pet"},{"key":"narwhal","btn":"narwhal","file":"art/pets/narwhal.png","label":"独角小鲸","sub":"幼体","kind":"pet"},{"key":"narwhal_s1@png","btn":"narwhal_s1.png","file":"art/pets-evo/narwhal_s1.png","label":"独角小鲸 (png)","sub":"成长体","kind":"pet"},{"key":"narwhal_s2@png","btn":"narwhal_s2.png","file":"art/pets-evo/narwhal_s2.png","label":"独角小鲸 (png)","sub":"究极体","kind":"pet"},{"key":"squid","btn":"squid","file":"art/pets/squid.png","label":"墨囊小鱿","sub":"幼体","kind":"pet"},{"key":"squid_s1@png","btn":"squid_s1.png","file":"art/pets-evo/squid_s1.png","label":"墨囊小鱿 (png)","sub":"成长体","kind":"pet"},{"key":"squid_s2@png","btn":"squid_s2.png","file":"art/pets-evo/squid_s2.png","label":"墨囊小鱿 (png)","sub":"究极体","kind":"pet"},{"key":"wolf","btn":"wolf","file":"art/pets/wolf.png","label":"霜牙小狼","sub":"幼体","kind":"pet"},{"key":"wolf_s1@png","btn":"wolf_s1.png","file":"art/pets-evo/wolf_s1.png","label":"霜牙小狼 (png)","sub":"成长体","kind":"pet"},{"key":"wolf_s2@png","btn":"wolf_s2.png","file":"art/pets-evo/wolf_s2.png","label":"霜牙小狼 (png)","sub":"究极体","kind":"pet"},{"key":"rhino","btn":"rhino","file":"art/pets/rhino.png","label":"铁角小犀","sub":"幼体","kind":"pet"},{"key":"rhino_s1@png","btn":"rhino_s1.png","file":"art/pets-evo/rhino_s1.png","label":"铁角小犀 (png)","sub":"成长体","kind":"pet"},{"key":"rhino_s2@png","btn":"rhino_s2.png","file":"art/pets-evo/rhino_s2.png","label":"铁角小犀 (png)","sub":"究极体","kind":"pet"},{"key":"hummingbird","btn":"hummingbird","file":"art/pets/hummingbird.png","label":"振翅小蜂鸟","sub":"幼体","kind":"pet"},{"key":"hummingbird_s1@png","btn":"hummingbird_s1.png","file":"art/pets-evo/hummingbird_s1.png","label":"振翅小蜂鸟 (png)","sub":"成长体","kind":"pet"},{"key":"hummingbird_s2@png","btn":"hummingbird_s2.png","file":"art/pets-evo/hummingbird_s2.png","label":"振翅小蜂鸟 (png)","sub":"究极体","kind":"pet"},{"key":"slime_king_p1@png","btn":"slime_king_p1.png","file":"art/bosses/slime_king_p1.png","label":"青茸史莱姆王","sub":"首领·形态Ⅰ","kind":"boss"},{"key":"slime_king_p2@png","btn":"slime_king_p2.png","file":"art/bosses/slime_king_p2.png","label":"青茸史莱姆王","sub":"首领·形态Ⅱ","kind":"boss"},{"key":"slime_king_p3@png","btn":"slime_king_p3.png","file":"art/bosses/slime_king_p3.png","label":"青茸史莱姆王","sub":"首领·形态Ⅲ","kind":"boss"},{"key":"slime_king@basejpg","btn":"slime_king.jpg","file":"art/bosses/slime_king.jpg","label":"青茸史莱姆王 底图","sub":"首领·底图","kind":"boss"},{"key":"caramel_fox_p1@png","btn":"caramel_fox_p1.png","file":"art/bosses/caramel_fox_p1.png","label":"焦糖狐火领主","sub":"首领·形态Ⅰ","kind":"boss"},{"key":"caramel_fox_p2@png","btn":"caramel_fox_p2.png","file":"art/bosses/caramel_fox_p2.png","label":"焦糖狐火领主","sub":"首领·形态Ⅱ","kind":"boss"},{"key":"caramel_fox_p3@png","btn":"caramel_fox_p3.png","file":"art/bosses/caramel_fox_p3.png","label":"焦糖狐火领主","sub":"首领·形态Ⅲ","kind":"boss"},{"key":"caramel_fox@basejpg","btn":"caramel_fox.jpg","file":"art/bosses/caramel_fox.jpg","label":"焦糖狐火领主 底图","sub":"首领·底图","kind":"boss"},{"key":"tide_lord_p1@png","btn":"tide_lord_p1.png","file":"art/bosses/tide_lord_p1.png","label":"溪谷潮语领主","sub":"首领·形态Ⅰ","kind":"boss"},{"key":"tide_lord_p2@png","btn":"tide_lord_p2.png","file":"art/bosses/tide_lord_p2.png","label":"溪谷潮语领主","sub":"首领·形态Ⅱ","kind":"boss"},{"key":"tide_lord_p3@png","btn":"tide_lord_p3.png","file":"art/bosses/tide_lord_p3.png","label":"溪谷潮语领主","sub":"首领·形态Ⅲ","kind":"boss"},{"key":"tide_lord@basejpg","btn":"tide_lord.jpg","file":"art/bosses/tide_lord.jpg","label":"溪谷潮语领主 底图","sub":"首领·底图","kind":"boss"},{"key":"honey_bear_p1@png","btn":"honey_bear_p1.png","file":"art/bosses/honey_bear_p1.png","label":"蜜蜡金甲熊王","sub":"首领·形态Ⅰ","kind":"boss"},{"key":"honey_bear_p2@png","btn":"honey_bear_p2.png","file":"art/bosses/honey_bear_p2.png","label":"蜜蜡金甲熊王","sub":"首领·形态Ⅱ","kind":"boss"},{"key":"honey_bear_p3@png","btn":"honey_bear_p3.png","file":"art/bosses/honey_bear_p3.png","label":"蜜蜡金甲熊王","sub":"首领·形态Ⅲ","kind":"boss"},{"key":"honey_bear@basejpg","btn":"honey_bear.jpg","file":"art/bosses/honey_bear.jpg","label":"蜜蜡金甲熊王 底图","sub":"首领·底图","kind":"boss"},{"key":"moon_demon_p1@png","btn":"moon_demon_p1.png","file":"art/bosses/moon_demon_p1.png","label":"月蚀幽影魔王","sub":"首领·形态Ⅰ","kind":"boss"},{"key":"moon_demon_p2@png","btn":"moon_demon_p2.png","file":"art/bosses/moon_demon_p2.png","label":"月蚀幽影魔王","sub":"首领·形态Ⅱ","kind":"boss"},{"key":"moon_demon_p3@png","btn":"moon_demon_p3.png","file":"art/bosses/moon_demon_p3.png","label":"月蚀幽影魔王","sub":"首领·形态Ⅲ","kind":"boss"},{"key":"moon_demon@basejpg","btn":"moon_demon.jpg","file":"art/bosses/moon_demon.jpg","label":"月蚀幽影魔王 底图","sub":"首领·底图","kind":"boss"},{"key":"cloud_whale_p1@png","btn":"cloud_whale_p1.png","file":"art/bosses/cloud_whale_p1.png","label":"云海光翼巨鲸","sub":"首领·形态Ⅰ","kind":"boss"},{"key":"cloud_whale_p2@png","btn":"cloud_whale_p2.png","file":"art/bosses/cloud_whale_p2.png","label":"云海光翼巨鲸","sub":"首领·形态Ⅱ","kind":"boss"},{"key":"cloud_whale_p3@png","btn":"cloud_whale_p3.png","file":"art/bosses/cloud_whale_p3.png","label":"云海光翼巨鲸","sub":"首领·形态Ⅲ","kind":"boss"},{"key":"cloud_whale@basejpg","btn":"cloud_whale.jpg","file":"art/bosses/cloud_whale.jpg","label":"云海光翼巨鲸 底图","sub":"首领·底图","kind":"boss"},{"key":"magma_drake_p1@png","btn":"magma_drake_p1.png","file":"art/bosses/magma_drake_p1.png","label":"熔核赤焰幼龙","sub":"首领·形态Ⅰ","kind":"boss"},{"key":"magma_drake_p2@png","btn":"magma_drake_p2.png","file":"art/bosses/magma_drake_p2.png","label":"熔核赤焰幼龙","sub":"首领·形态Ⅱ","kind":"boss"},{"key":"magma_drake_p3@png","btn":"magma_drake_p3.png","file":"art/bosses/magma_drake_p3.png","label":"熔核赤焰幼龙","sub":"首领·形态Ⅲ","kind":"boss"},{"key":"magma_drake@basejpg","btn":"magma_drake.jpg","file":"art/bosses/magma_drake.jpg","label":"熔核赤焰幼龙 底图","sub":"首领·底图","kind":"boss"},{"key":"star_beast_p1@png","btn":"star_beast_p1.png","file":"art/bosses/star_beast_p1.png","label":"星潮怒涛巨兽","sub":"首领·形态Ⅰ","kind":"boss"},{"key":"star_beast_p2@png","btn":"star_beast_p2.png","file":"art/bosses/star_beast_p2.png","label":"星潮怒涛巨兽","sub":"首领·形态Ⅱ","kind":"boss"},{"key":"star_beast_p3@png","btn":"star_beast_p3.png","file":"art/bosses/star_beast_p3.png","label":"星潮怒涛巨兽","sub":"首领·形态Ⅲ","kind":"boss"},{"key":"star_beast@basejpg","btn":"star_beast.jpg","file":"art/bosses/star_beast.jpg","label":"星潮怒涛巨兽 底图","sub":"首领·底图","kind":"boss"},{"key":"prism_queen_p1@png","btn":"prism_queen_p1.png","file":"art/bosses/prism_queen_p1.png","label":"幻光蝶后","sub":"首领·形态Ⅰ","kind":"boss"},{"key":"prism_queen_p2@png","btn":"prism_queen_p2.png","file":"art/bosses/prism_queen_p2.png","label":"幻光蝶后","sub":"首领·形态Ⅱ","kind":"boss"},{"key":"prism_queen_p3@png","btn":"prism_queen_p3.png","file":"art/bosses/prism_queen_p3.png","label":"幻光蝶后","sub":"首领·形态Ⅲ","kind":"boss"},{"key":"prism_queen@basejpg","btn":"prism_queen.jpg","file":"art/bosses/prism_queen.jpg","label":"幻光蝶后 底图","sub":"首领·底图","kind":"boss"},{"key":"peak_titan_p1@png","btn":"peak_titan_p1.png","file":"art/bosses/peak_titan_p1.png","label":"永恒石心魔神","sub":"首领·形态Ⅰ","kind":"boss"},{"key":"peak_titan_p2@png","btn":"peak_titan_p2.png","file":"art/bosses/peak_titan_p2.png","label":"永恒石心魔神","sub":"首领·形态Ⅱ","kind":"boss"},{"key":"peak_titan_p3@png","btn":"peak_titan_p3.png","file":"art/bosses/peak_titan_p3.png","label":"永恒石心魔神","sub":"首领·形态Ⅲ","kind":"boss"},{"key":"peak_titan@basejpg","btn":"peak_titan.jpg","file":"art/bosses/peak_titan.jpg","label":"永恒石心魔神 底图","sub":"首领·底图","kind":"boss"},{"key":"watcher_p1@png","btn":"watcher_p1.png","file":"art/bosses/watcher_p1.png","label":"守梦人·执念","sub":"首领·形态Ⅰ","kind":"boss"},{"key":"watcher_p2@png","btn":"watcher_p2.png","file":"art/bosses/watcher_p2.png","label":"守梦人·执念","sub":"首领·形态Ⅱ","kind":"boss"},{"key":"watcher_p3@png","btn":"watcher_p3.png","file":"art/bosses/watcher_p3.png","label":"守梦人·执念","sub":"首领·形态Ⅲ","kind":"boss"},{"key":"watcher@basejpg","btn":"watcher.jpg","file":"art/bosses/watcher.jpg","label":"守梦人·执念 底图","sub":"首领·底图","kind":"boss"},{"key":"goodnight_p1@png","btn":"goodnight_p1.png","file":"art/bosses/goodnight_p1.png","label":"晚安先生","sub":"首领·形态Ⅰ","kind":"boss"},{"key":"goodnight_p1@jpg","btn":"goodnight_p1.jpg","file":"art/bosses/goodnight_p1.jpg","label":"晚安先生","sub":"首领·形态Ⅰ","kind":"boss"},{"key":"goodnight_p2@png","btn":"goodnight_p2.png","file":"art/bosses/goodnight_p2.png","label":"晚安先生","sub":"首领·形态Ⅱ","kind":"boss"},{"key":"goodnight_p2@jpg","btn":"goodnight_p2.jpg","file":"art/bosses/goodnight_p2.jpg","label":"晚安先生","sub":"首领·形态Ⅱ","kind":"boss"},{"key":"goodnight_p3@png","btn":"goodnight_p3.png","file":"art/bosses/goodnight_p3.png","label":"晚安先生","sub":"首领·形态Ⅲ","kind":"boss"},{"key":"goodnight_p3@jpg","btn":"goodnight_p3.jpg","file":"art/bosses/goodnight_p3.jpg","label":"晚安先生","sub":"首领·形态Ⅲ","kind":"boss"},{"key":"goodnight@basejpg","btn":"goodnight.jpg","file":"art/bosses/goodnight.jpg","label":"晚安先生 底图","sub":"首领·底图","kind":"boss"}];
+let mode = 'flip';
+let filter = 'all';
+const flipSet = new Set(), delSet = new Set();
+function visible(it) {
+  if (filter === 'all') return true;
+  return it.sub === filter;
+}
+function render() {
   const groups = {};
-  ITEMS.filter(it => filter === 'all' || (filter === 'boss' ? it.kind === 'boss' : it.sub === filter)).forEach(it => {
-    (groups[it.sub] = groups[it.sub] || []).push(it);
-  });
+  ITEMS.filter(visible).forEach(it => (groups[it.sub] = groups[it.sub] || []).push(it));
+  const root = document.getElementById('list');
+  root.innerHTML = '';
   for (const [sub, arr] of Object.entries(groups)) {
     const sec = document.createElement('section');
     sec.innerHTML = '<h2>' + sub + ' · ' + arr.length + ' 张</h2>';
@@ -60,51 +69,66 @@ function render(filter) {
     grid.className = 'grid';
     arr.forEach(it => {
       const el = document.createElement('div');
-      el.className = 'card' + (marked.has(it.key) ? ' on' : '');
-      el.innerHTML = '<span class="tag">翻</span><img src="' + it.file + '" loading="lazy" alt=""><div class="name">' + it.label + '</div><div class="id">' + it.key + '</div>';
+      el.className = 'card';
+      const isFlip = flipSet.has(it.key), isDel = delSet.has(it.key);
+      if (isFlip) el.classList.add('flip');
+      if (isDel) el.classList.add('drop');
+      el.innerHTML = '<span class="tag">' + (isDel ? '删' : '翻') + '</span><img src="' + it.file + '" loading="lazy" alt=""><div class="name">' + it.label + '</div><div class="id">' + it.btn + '</div>';
       el.addEventListener('click', () => {
-        if (marked.has(it.key)) { marked.delete(it.key); el.classList.remove('on'); }
-        else { marked.add(it.key); el.classList.add('on'); }
+        if (mode === 'del') {
+          flipSet.delete(it.key);
+          if (delSet.has(it.key)) delSet.delete(it.key); else delSet.add(it.key);
+        } else {
+          delSet.delete(it.key);
+          if (flipSet.has(it.key)) flipSet.delete(it.key); else flipSet.add(it.key);
+        }
+        el.classList.toggle('flip', flipSet.has(it.key));
+        el.classList.toggle('drop', delSet.has(it.key));
+        el.querySelector('.tag').textContent = delSet.has(it.key) ? '删' : '翻';
         refresh();
       });
       grid.appendChild(el);
     });
     sec.appendChild(grid);
-    listEl.appendChild(sec);
+    root.appendChild(sec);
   }
-}
-let currentFilter = 'all';
-function markPage(on) {
-  ITEMS.filter(it => currentFilter === 'all' || (currentFilter === 'boss' ? it.kind === 'boss' : it.sub === currentFilter)).forEach(it => {
-    if (on) marked.add(it.key); else marked.delete(it.key);
-  });
-  document.querySelectorAll('.card').forEach(c => {});
-  render(currentFilter);
   refresh();
 }
 function refresh() {
-  document.getElementById('cnt').textContent = marked.size;
-  document.getElementById('out').value = [...marked].join(', ');
+  document.getElementById('fc').textContent = flipSet.size;
+  document.getElementById('dc').textContent = delSet.size;
 }
 document.getElementById('filters').addEventListener('click', e => {
-  const b = e.target.closest('button[data-f]');
-  if (!b) return;
-  document.querySelectorAll('#filters button[data-f]').forEach(x => x.classList.toggle('on', x === b));
-  currentFilter = b.dataset.f;
-  render(b.dataset.f);
+  const m = e.target.closest('button[data-mode]');
+  if (m) {
+    mode = m.dataset.mode;
+    document.getElementById('mFlip').classList.toggle('on', mode === 'flip');
+    document.getElementById('mDel').classList.toggle('on', mode === 'del');
+    const nm = document.getElementById('modeName');
+    nm.textContent = '当前：标记' + (mode === 'flip' ? '翻转' : '删除');
+    nm.className = 'mode ' + mode;
+    return;
+  }
+  const f = e.target.closest('button[data-f]');
+  if (f) {
+    filter = f.dataset.f;
+    document.querySelectorAll('button[data-f]').forEach(x => x.classList.toggle('on', x === f));
+    render();
+  }
 });
-document.getElementById('copy').addEventListener('click', () => {
+document.getElementById('copyFlip').addEventListener('click', () => {
   const out = document.getElementById('out');
-  out.select();
-  try { document.execCommand('copy'); document.getElementById('copy').textContent = '已复制 ✓'; setTimeout(() => document.getElementById('copy').textContent = '复制清单', 1200); } catch (e) {}
+  out.value = [...flipSet].map(k => ITEMS.find(i => i.key === k).btn).join(', ');
+  out.select(); try { document.execCommand('copy'); } catch (e) {}
+  document.getElementById('copyFlip').textContent = '已复制 ✓'; setTimeout(() => document.getElementById('copyFlip').textContent = '复制翻转清单', 1200);
 });
-document.getElementById('clear').addEventListener('click', () => {
-  marked.clear();
-  document.querySelectorAll('.card.on').forEach(c => c.classList.remove('on'));
-  refresh();
+document.getElementById('copyDel').addEventListener('click', () => {
+  const out = document.getElementById('out');
+  out.value = [...delSet].map(k => ITEMS.find(i => i.key === k).btn).join(', ');
+  out.select(); try { document.execCommand('copy'); } catch (e) {}
+  document.getElementById('copyDel').textContent = '已复制 ✓'; setTimeout(() => document.getElementById('copyDel').textContent = '复制删除清单', 1200);
 });
-render('all');
-document.getElementById('markAll').addEventListener('click', () => markPage(true));
-document.getElementById('markNone').addEventListener('click', () => markPage(false));
+document.getElementById('clear').addEventListener('click', () => { flipSet.clear(); delSet.clear(); render(); });
+render();
 window.__auditReady = true;
 </script></body></html>
